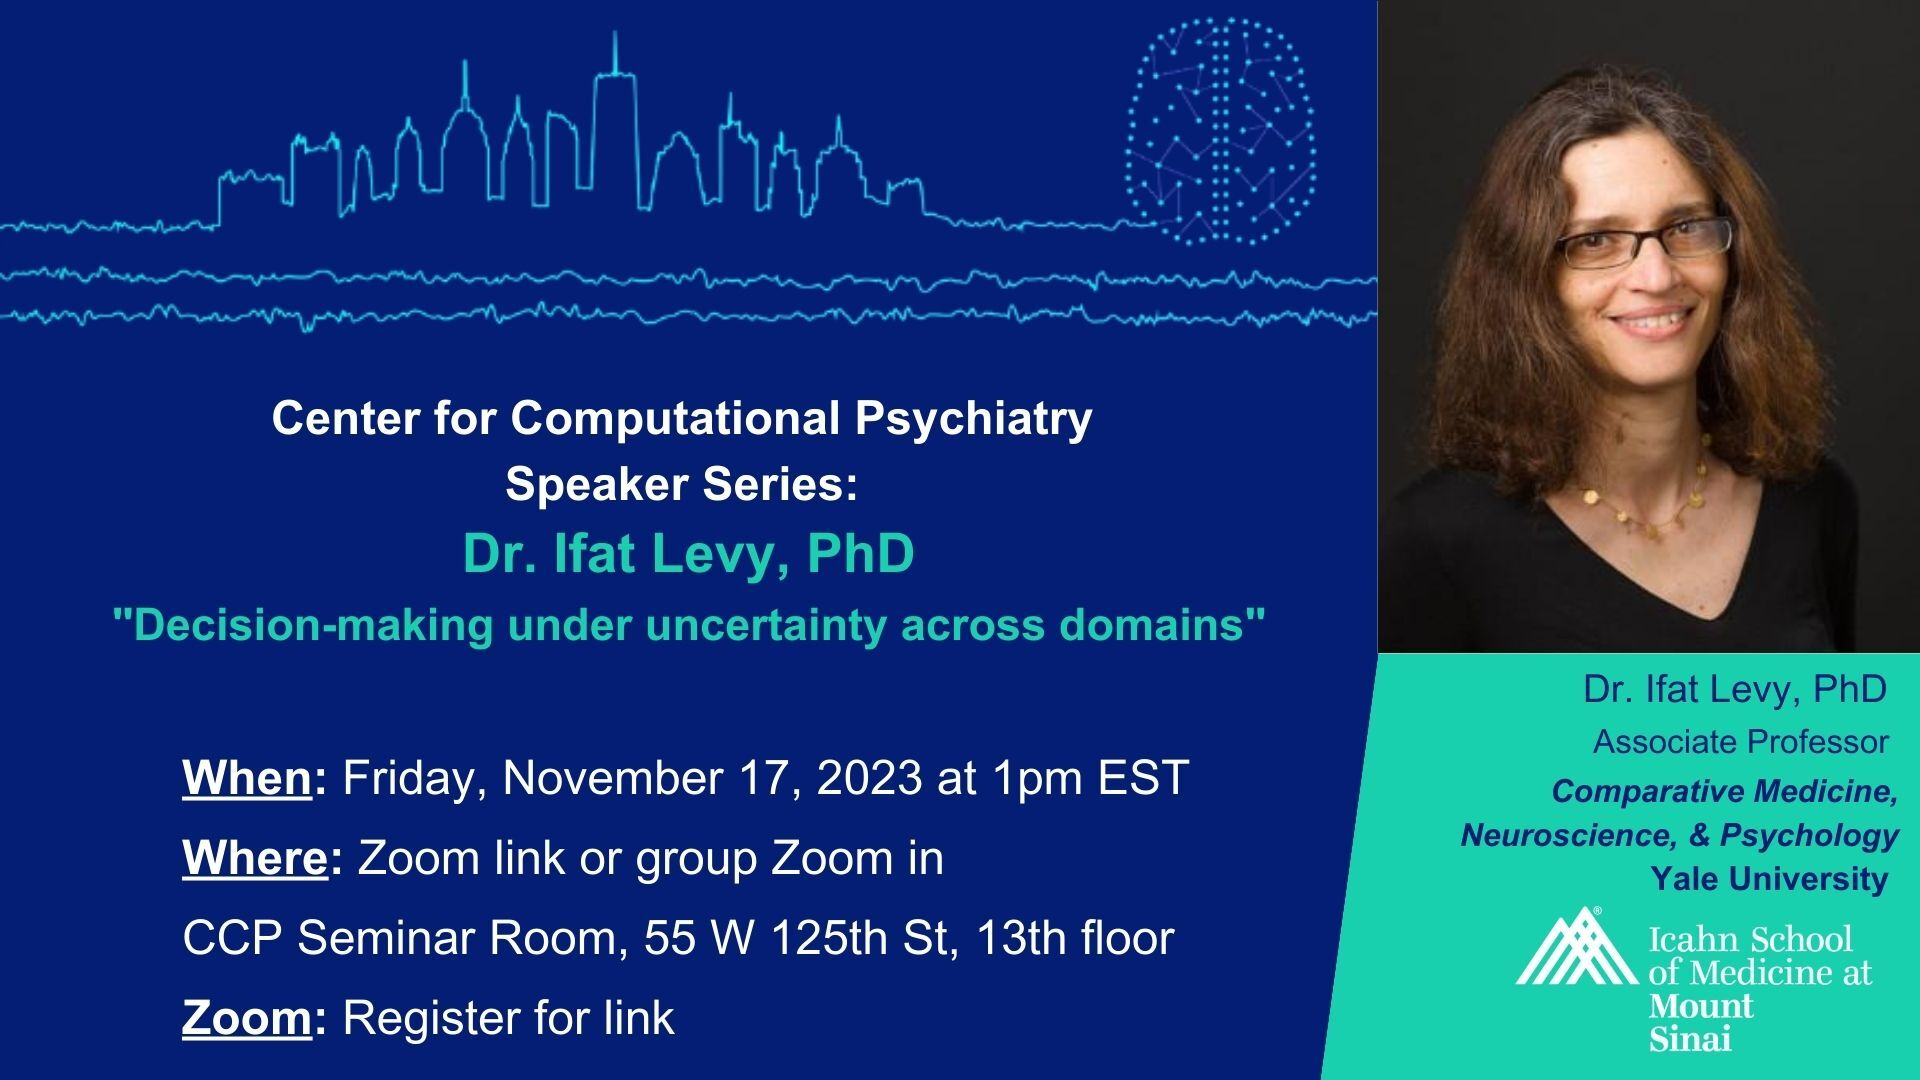
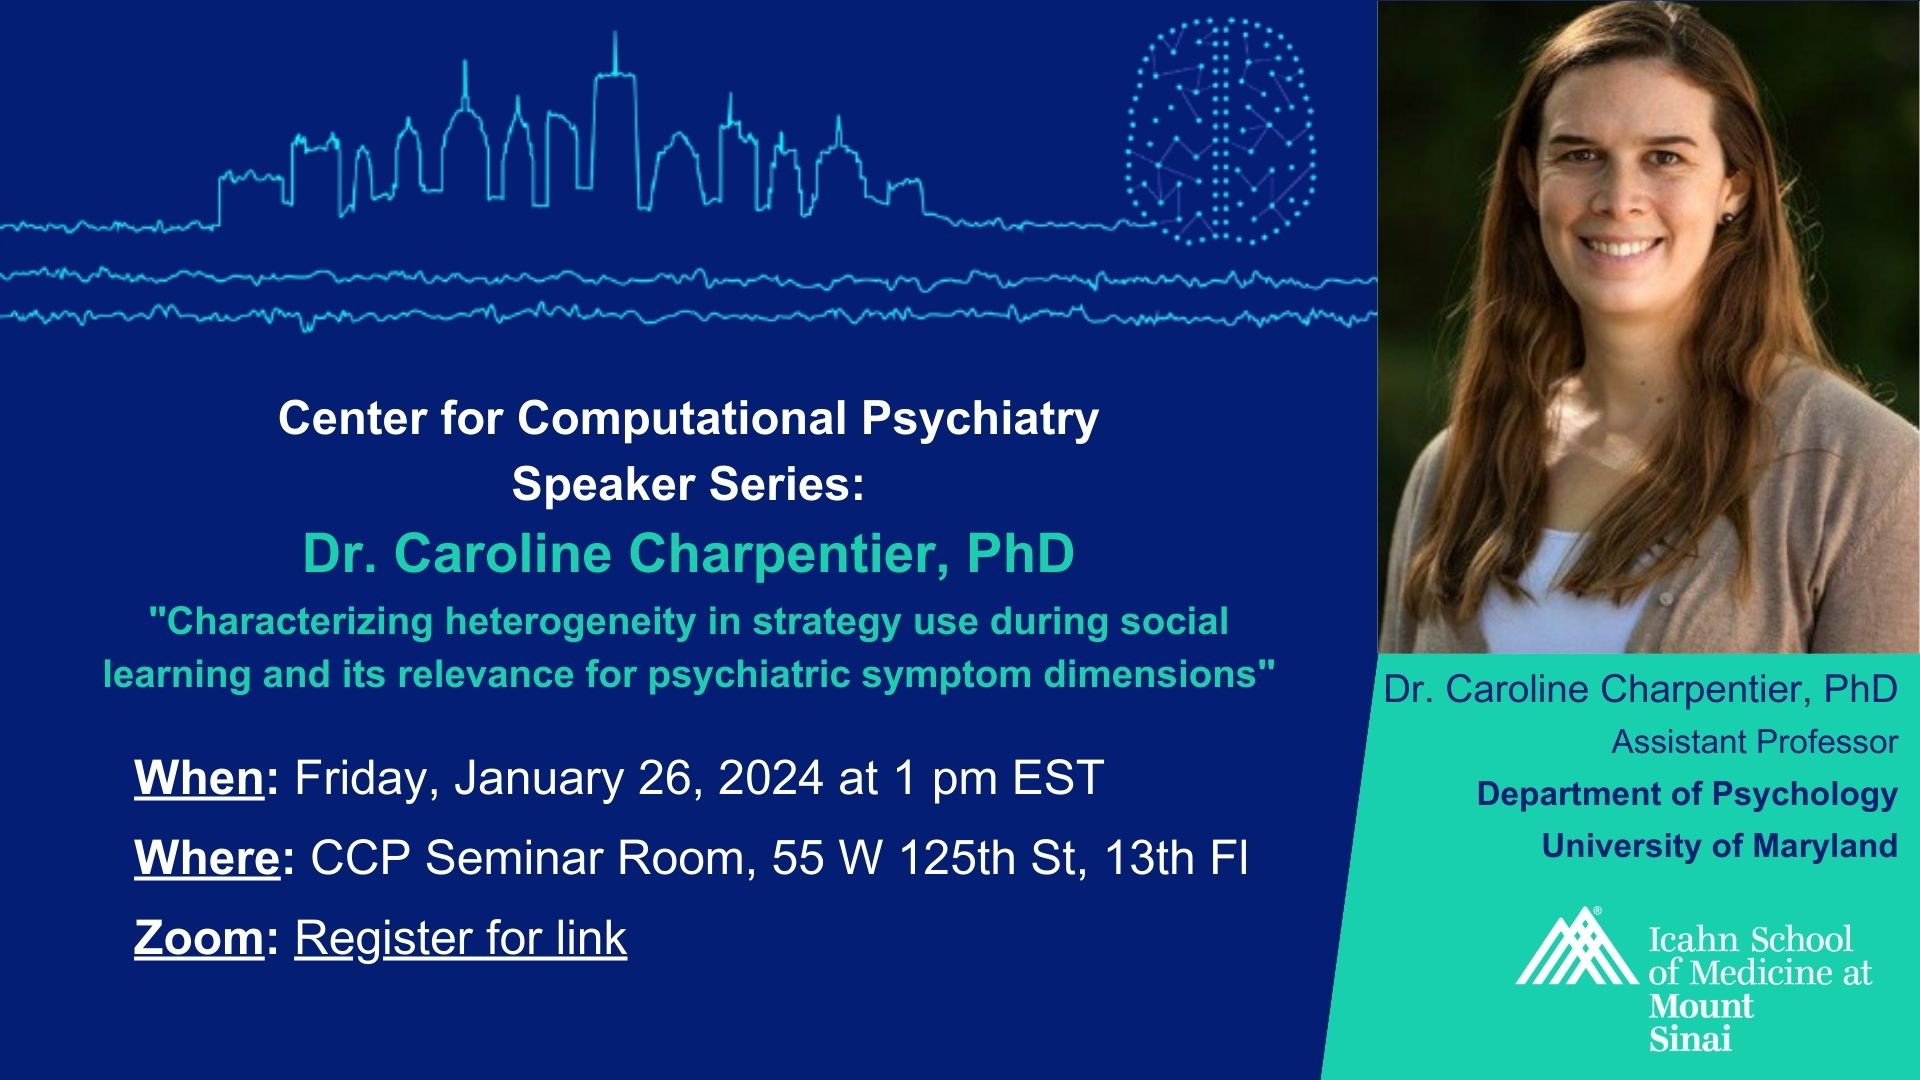
update website

Changed region(s): [[0.7188, 0.0, 1.0, 0.825], [0.0312, 0.3667, 0.6562, 0.6417], [0.0625, 0.7028, 0.6562, 0.9778]]

diff --git a/README.md b/README.md
@@ -12,7 +12,7 @@ For more information, please get in touch with Alessandra Yu at `alessandra.yu@i
 | 2023/09/29 | Dr. Tobias Hauser   | [Link](https://forms.gle/456ekX3tS3GSWsEA7) |
 | 2023/10/20 | Dr. Ian Ballard     | [Link](https://forms.gle/9UjAC5VQjK82dNEAA) |
 | 2023/11/17 | Dr. Ifat Levy       | [Link](https://forms.gle/iikoNNXwHVXmQhMX9) |
-| 2024/01/26 | Dr. Caroline Charpentier |      |
+| 2024/01/26 | Dr. Caroline Charpentier | [Link](https://forms.gle/QoQo5oAPwZM4ydZ19 ) |
 | 2024/02 |                     |      |
 | 2024/03/08 | Dr. David Redish | (FBI Speaker Series)     |
 {: .tablelines}
